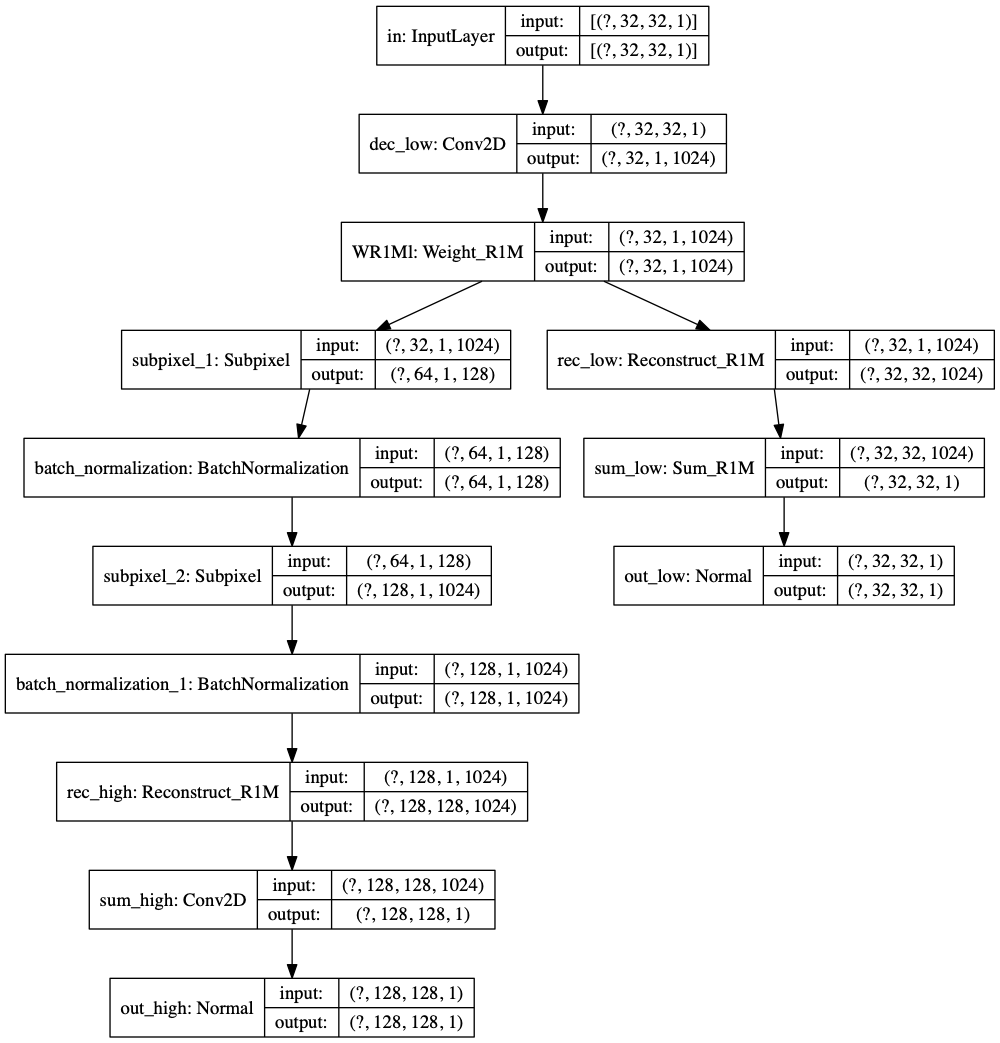
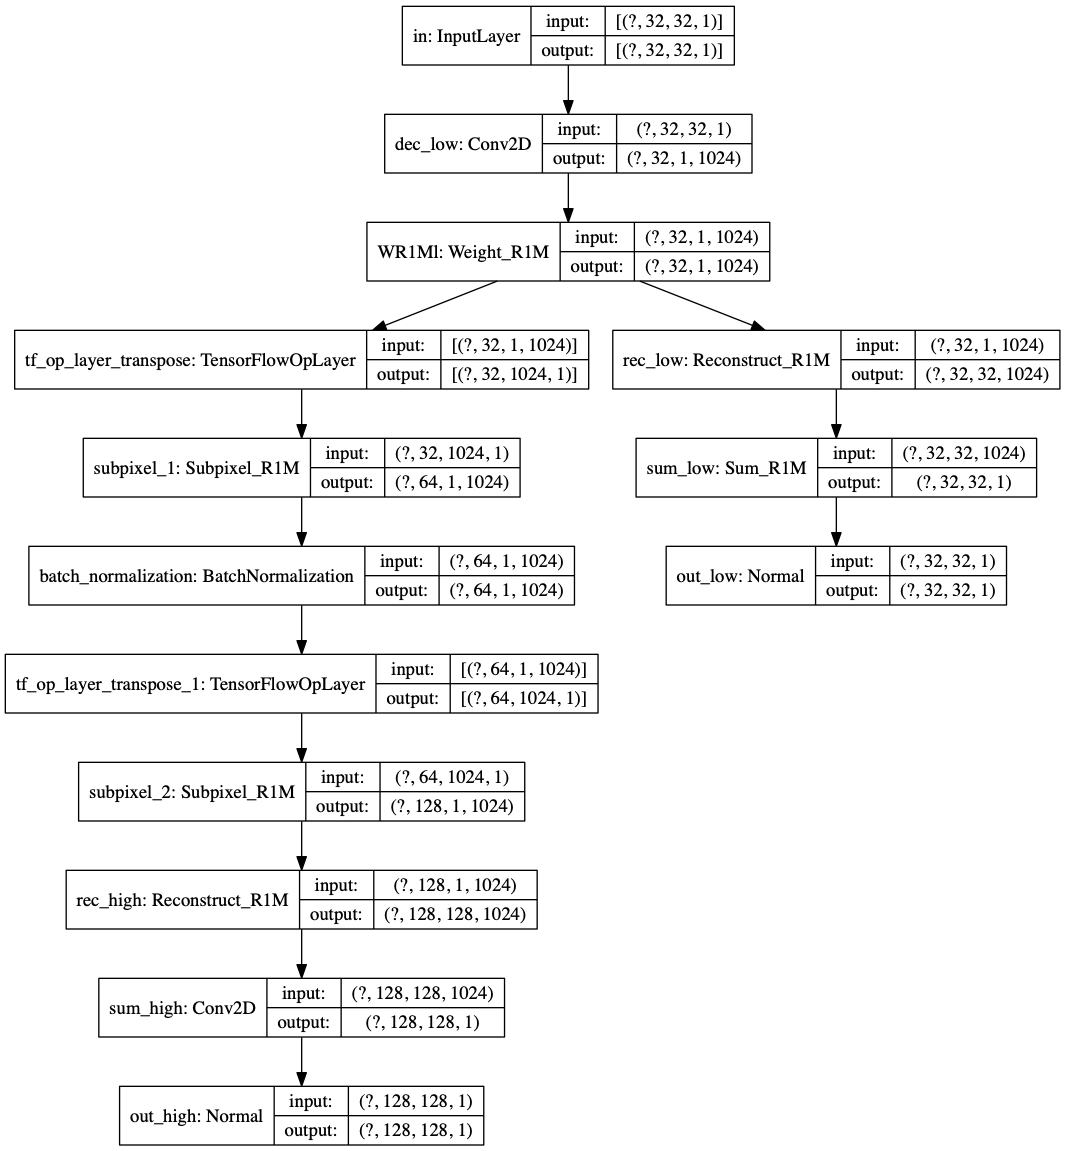
new model subpixel 1D

Changed region(s): [[0.0, 0.0, 1.0, 1.0]]

diff --git a/model.py b/model.py
@@ -82,7 +82,7 @@ class Weight_R1M(tf.keras.layers.Layer):
         X = tf.keras.backend.concatenate(X, axis=2)  # bsize, a*r, b*r, c/(r*r)
         return X'''
 
-class Subpixel(tf.keras.layers.Conv2D):
+class Subpixel_R1M(tf.keras.layers.Conv2D):
     def __init__(self,
                 filters,
                 kernel_size,
@@ -100,7 +100,7 @@ class Subpixel(tf.keras.layers.Conv2D):
                 kernel_constraint=None,
                 bias_constraint=None,
                 **kwargs):
-        super(Subpixel, self).__init__(
+        super(Subpixel_R1M, self).__init__(
             filters=r[0]*r[1]*filters,
             kernel_size=kernel_size,
             strides=strides,
@@ -133,13 +133,17 @@ class Subpixel(tf.keras.layers.Conv2D):
         X = tf.keras.backend.concatenate(X, axis=2)  # bsize, a*r0, b*r1, c/(r0*r0)
         return X
 
-    def call(self, inputs):
-        return self._phase_shift(super(Subpixel, self).call(inputs))
+    def call(self, inputs): #after transpose input size: [bsize, H, W, C], C=1, 
+        output_conv = super(Subpixel_R1M, self).call(inputs)  #[bsize, H, C, 1] --> [bsize, H, C_in, C_out]
+        output = self._phase_shift(output_conv)
+        output = tf.reduce_sum(output, axis = -1, keepdims=True)
+        output = tf.transpose(output, perm=[0,1,3,2]) #[bsize, H, W, C_out], W=1
+        return output
 
-    def compute_output_shape(self, input_shape):
-        unshifted = super(Subpixel, self).compute_output_shape(input_shape)
+    '''def compute_output_shape(self, input_shape):
+        unshifted = super(Subpixel_R1M, self).compute_output_shape(input_shape)
         return (unshifted[0], self.r[0]*unshifted[1], self.r[1]*unshifted[2], unshifted[3]/(self.r[0]*self.r[1]))
-
+    '''
     def get_config(self):
         config = super(tf.keras.layers.Conv2D, self).get_config()
         config.pop('rank')
@@ -194,12 +198,6 @@ class Normal(tf.keras.layers.Layer):
 
         return tf.multiply(Div, M)
 
-'''class symmetry_constraints(tf.keras.constraints.Constraint):
-    def __call__(self, w): 
-        #for conv2d the shape of kernel = [W, H, C, K] C:channels, K:output number of filters
-        Tw = tf.transpose(w, perm=[1,0,2,3])
-        return (w + Tw)/2.0'''
-
 def make_generator_model(len_low_size=16, scale=4):
     In = tf.keras.layers.Input(
         shape=(len_low_size, len_low_size, 1), name='in', dtype=tf.float32)
@@ -218,19 +216,21 @@ def make_generator_model(len_low_size=16, scale=4):
     m_F = tf.constant(1/16.0, shape=(1, 1, 1, 1))
     up_o = tf.keras.layers.Multiply(name='scale_value_in')([up_o, m_F])'''
 
-    trans_1 = Subpixel(filters= int(128), kernel_size=(3,1), r=(2,1), 
+    inputs_trans = tf.transpose(WeiR1Ml, perm=[0,1,3,2])
+    trans_1 = Subpixel_R1M(filters= int(1024), kernel_size=(3,1), r=(2,1), 
                         activation='relu', use_bias=False, padding='same', 
                         kernel_initializer=tf.keras.initializers.RandomNormal(mean=0.01, stddev=0.1), 
-                        name='subpixel_1')(WeiR1Ml)
+                        name='subpixel_1')(inputs_trans)
     batchnorm = tf.keras.layers.BatchNormalization()(trans_1)
 
-    trans_2 = Subpixel(filters= int(1024), kernel_size=(3,1), r=(2,1), 
+    inputs_trans = tf.transpose(batchnorm, perm=[0,1,3,2])
+    trans_2 = Subpixel_R1M(filters= int(1024), kernel_size=(3,1), r=(2,1), 
                         activation='relu', use_bias=False, padding='same', 
                         kernel_initializer=tf.keras.initializers.RandomNormal(mean=0.01, stddev=0.1), 
-                        name='subpixel_2')(batchnorm)
+                        name='subpixel_2')(inputs_trans)
     batchnorm = tf.keras.layers.BatchNormalization()(trans_2)
 
-    Rech = Reconstruct_R1M(1024, name='rec_high')(batchnorm)
+    Rech = Reconstruct_R1M(1024, name='rec_high')(trans_2)
     Sumh = tf.keras.layers.Conv2D(filters=1, kernel_size=(1,1),
                                     strides=(1,1), padding='same',
                                     data_format="channels_last",
